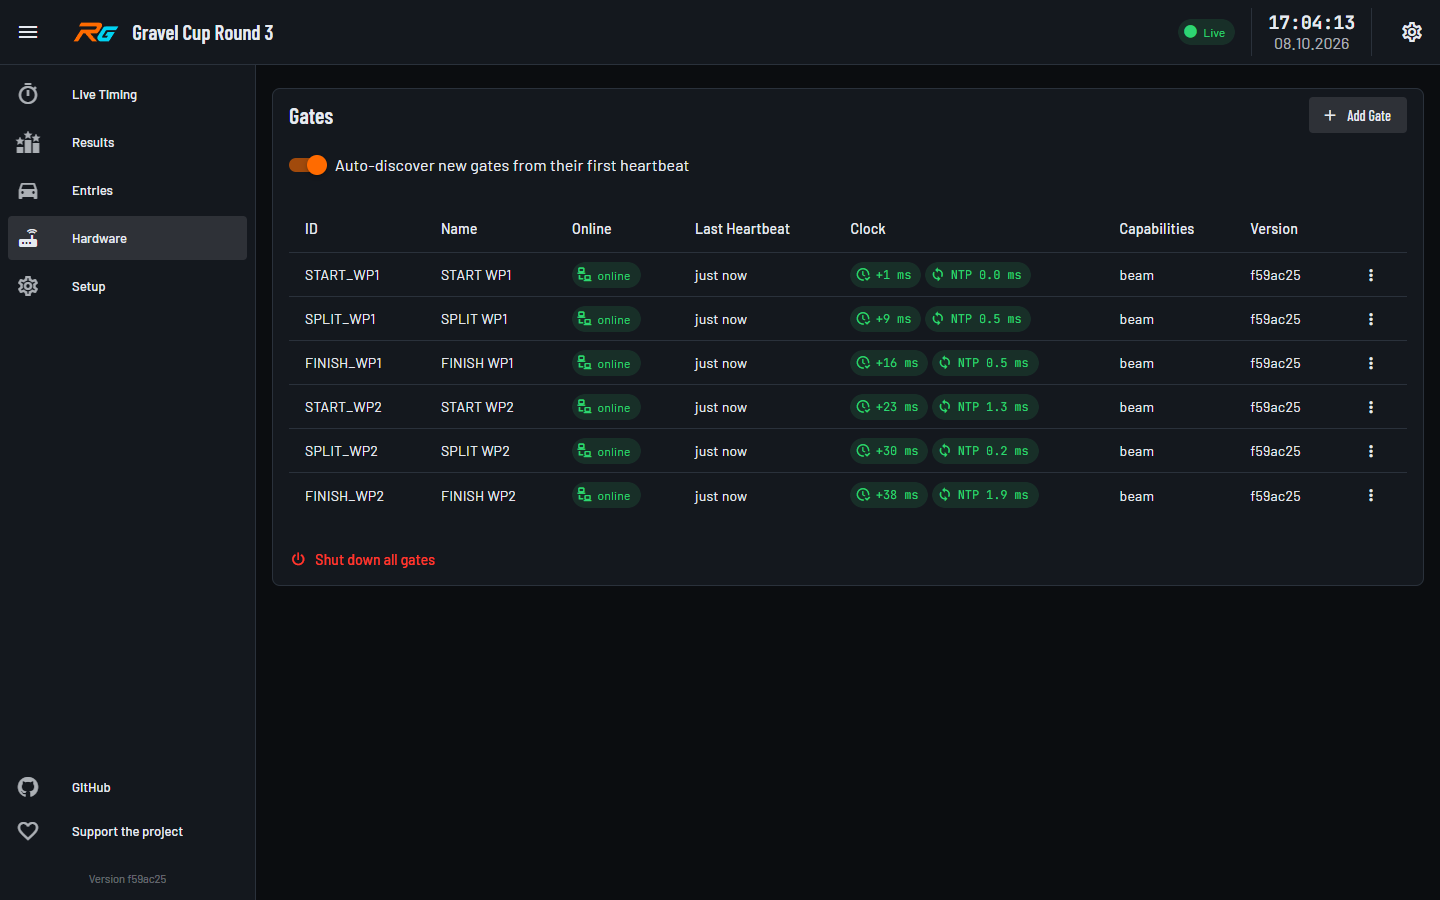
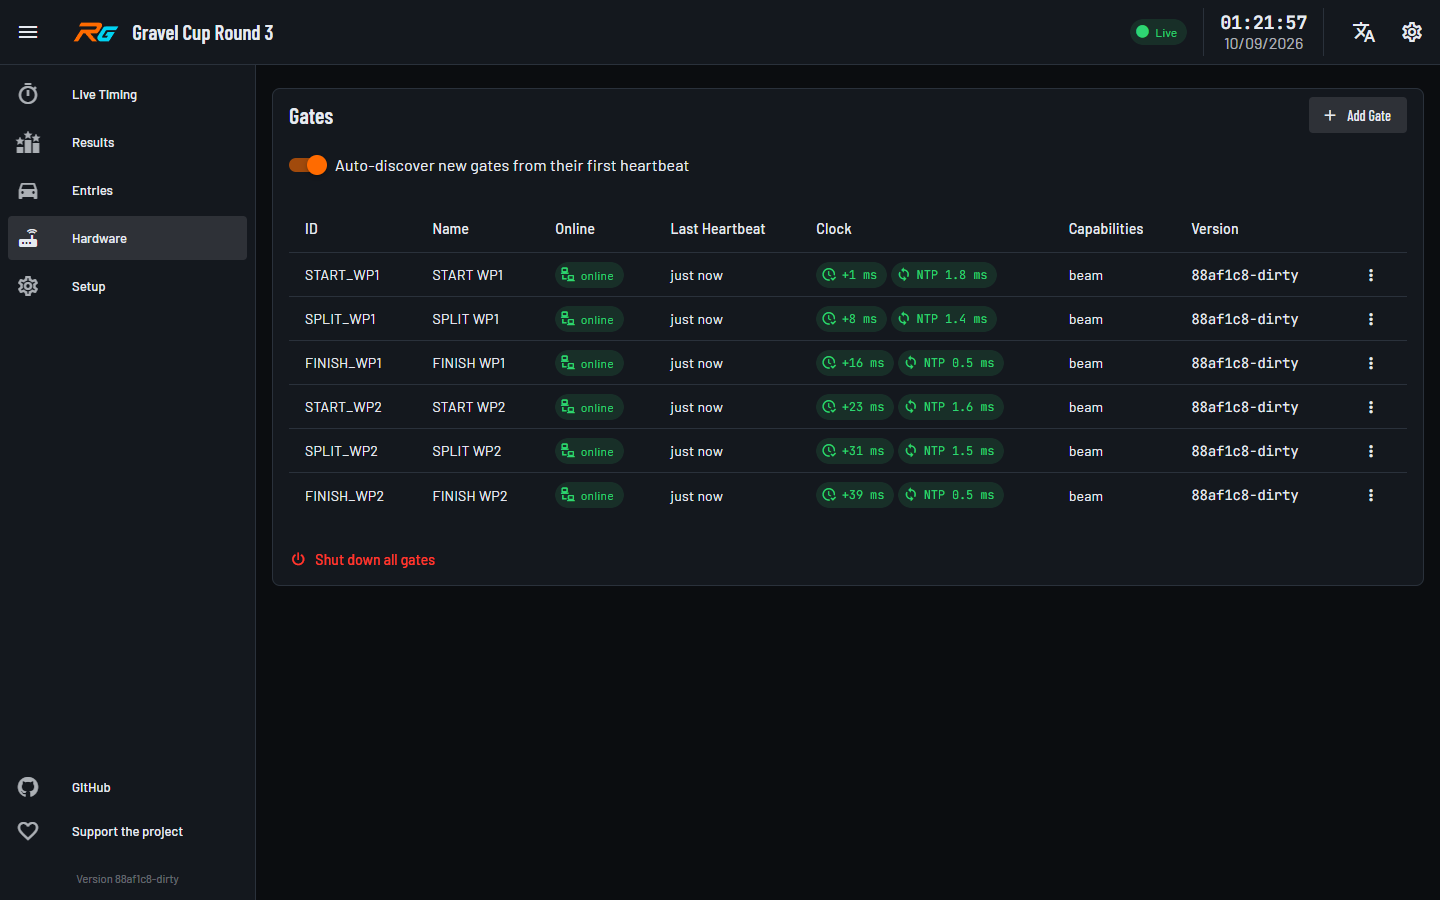
24h clock in English, README screenshots in English without stray gates
"en" alone reads as en-US in Intl, which says AM/PM; the app-bar clock and
formatStamp now force hourCycle h23 like every other time.

scripts/screenshots.js shoots with --lang=en and runs its throwaway server's
MQTT broker on 58431: on the field port a real gate on the LAN auto-registered
into the demo event and showed up on the Hardware screenshot.

diff --git a/scripts/screenshots.js b/scripts/screenshots.js
@@ -13,6 +13,9 @@ const ROOT = path.resolve(__dirname, '..');
 const ORIGIN = 'http://localhost:57430';
 const API = `${ORIGIN}/api`;
 const OUT = path.join(ROOT, 'docs/images');
+// Not the field port 57431: a real gate on this network would heartbeat into
+// the throwaway event, auto-register and end up in the README.
+const MQTT_PORT = 58431;
 const SHOTS = [
   ['/live/WP2', 'live'],
   ['/results/overall', 'results'],
@@ -297,7 +300,8 @@ function screenshot(route, name) {
     [
       'npx --yes playwright screenshot',
       channel ? `--channel=${channel}` : '',
-      '--viewport-size=1440,900 --color-scheme=dark --wait-for-timeout=2500',
+      // English whatever this machine's language: the README is English.
+      '--viewport-size=1440,900 --color-scheme=dark --lang=en --wait-for-timeout=2500',
       ORIGIN + route,
       JSON.stringify(path.join(OUT, `${name}.png`)),
     ].join(' '),
@@ -327,12 +331,13 @@ async function main() {
       ...process.env,
       DB_TYPE: 'sqlite',
       DB_PATH: dbPath,
+      MQTT_PORT: String(MQTT_PORT),
       MDNS_DISABLE: '1',
       LOG_LEVEL: 'warn',
     },
     stdio: 'inherit',
   });
-  const client = mqtt.connect('mqtt://localhost:57431', {
+  const client = mqtt.connect(`mqtt://localhost:${MQTT_PORT}`, {
     reconnectPeriod: 500,
   });
   try {

diff --git a/apps/web/src/App.vue b/apps/web/src/App.vue
@@ -88,6 +88,7 @@ onMounted(async () => {
           <div class="rg-timing app-bar-clock">
             {{
               new Date(serverNow).toLocaleTimeString(currentLocale(), {
+                hourCycle: 'h23',
                 hour: '2-digit',
                 minute: '2-digit',
                 second: '2-digit',

diff --git a/apps/web/src/format.ts b/apps/web/src/format.ts
@@ -164,6 +164,8 @@ export function formatStamp(time: string | number): string {
     weekday: 'short',
     day: '2-digit',
     month: '2-digit',
+    // 24h in every language: "en" alone reads as en-US, which says AM/PM.
+    hourCycle: 'h23',
     hour: '2-digit',
     minute: '2-digit',
   });
